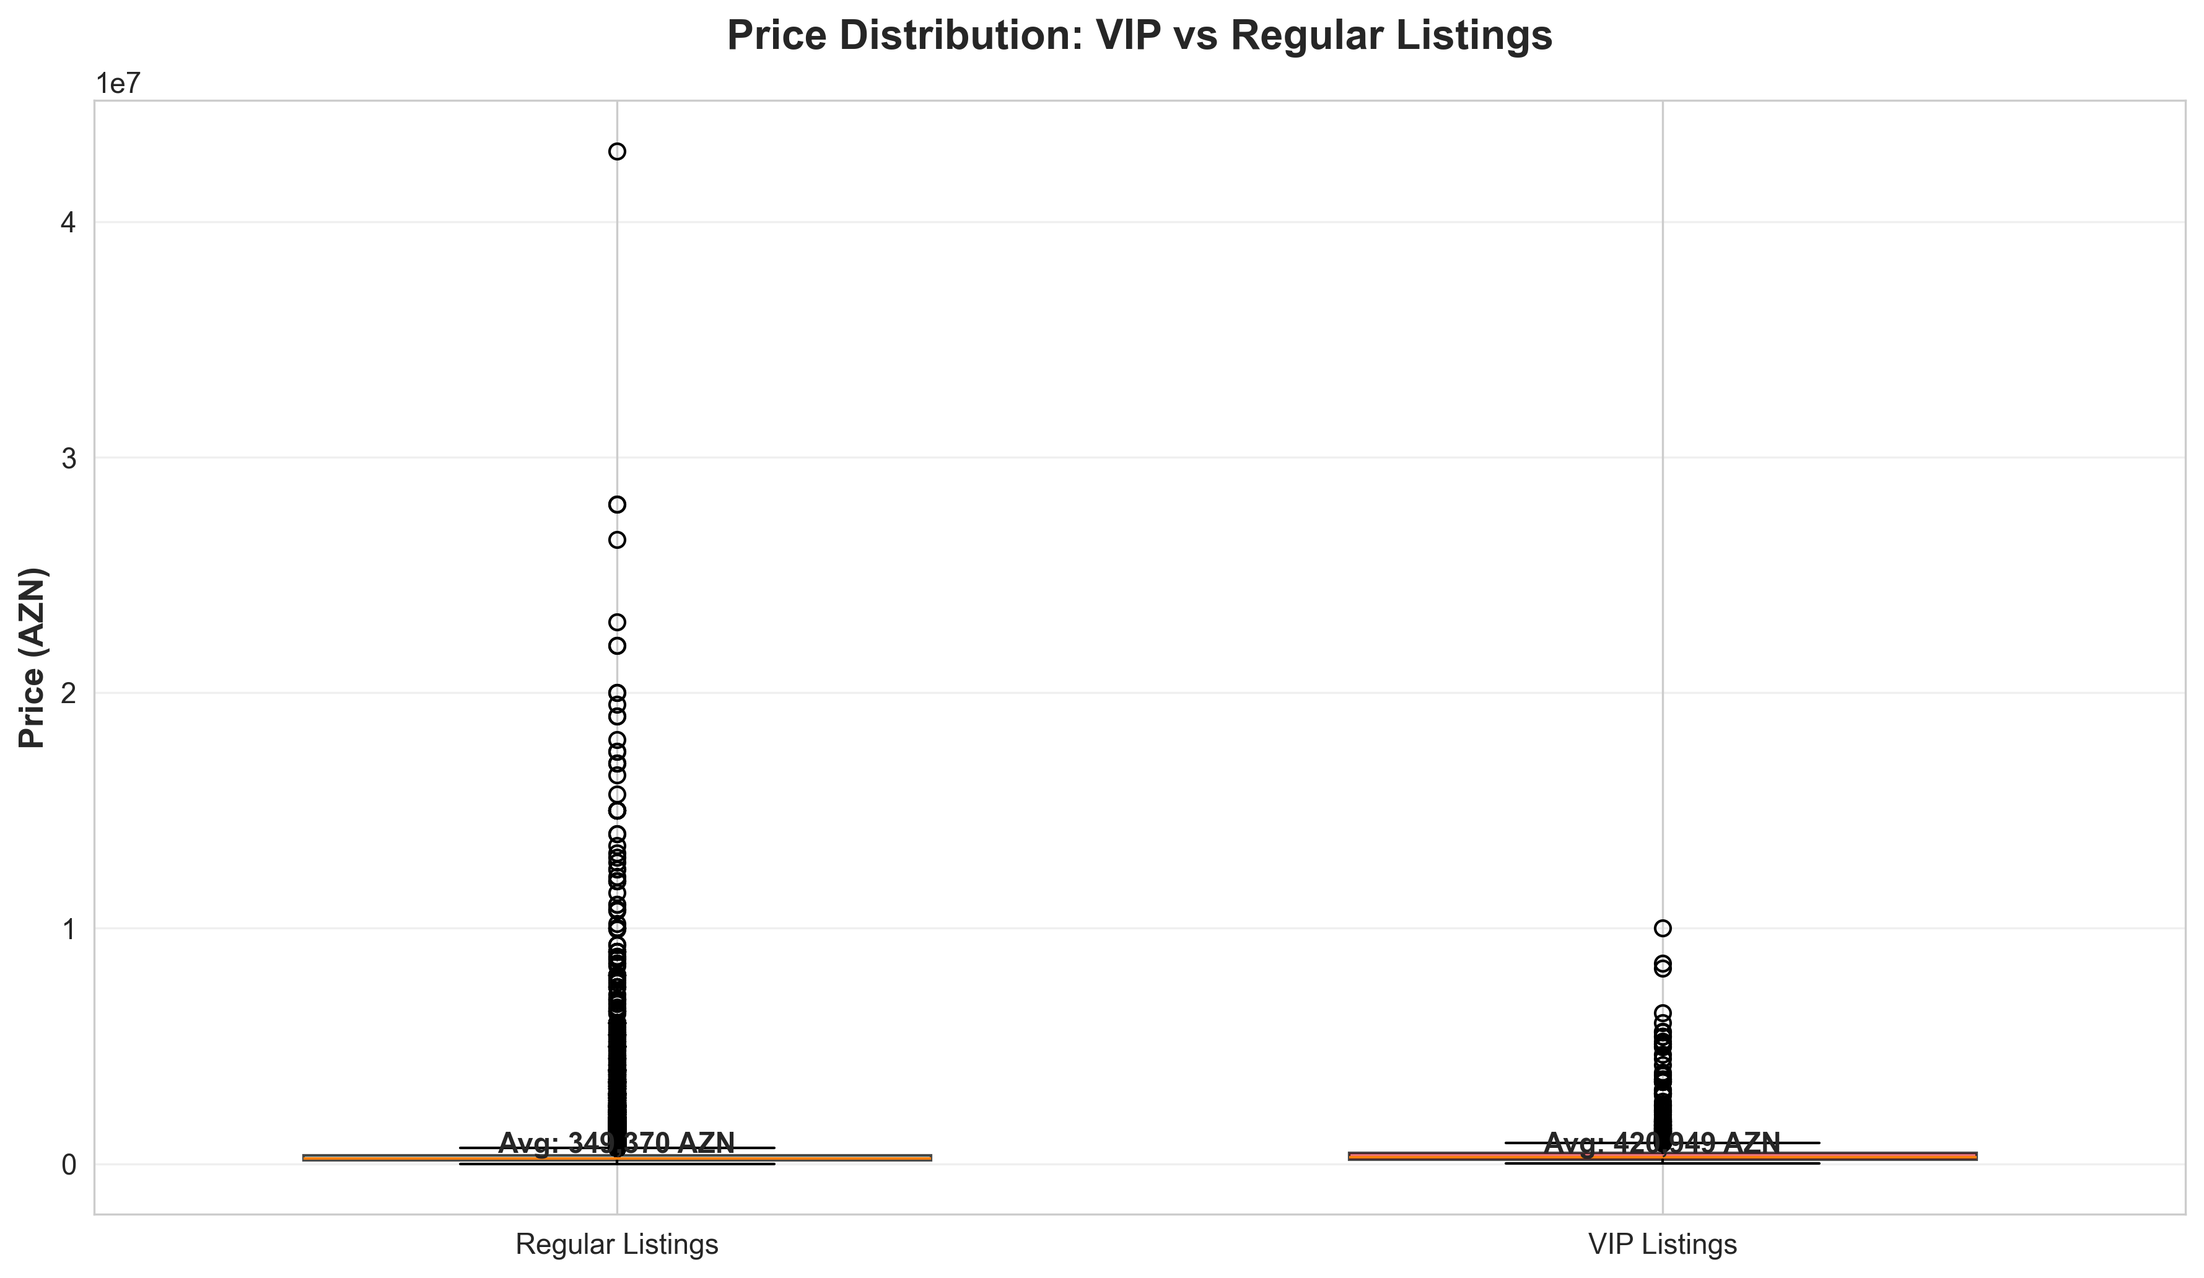
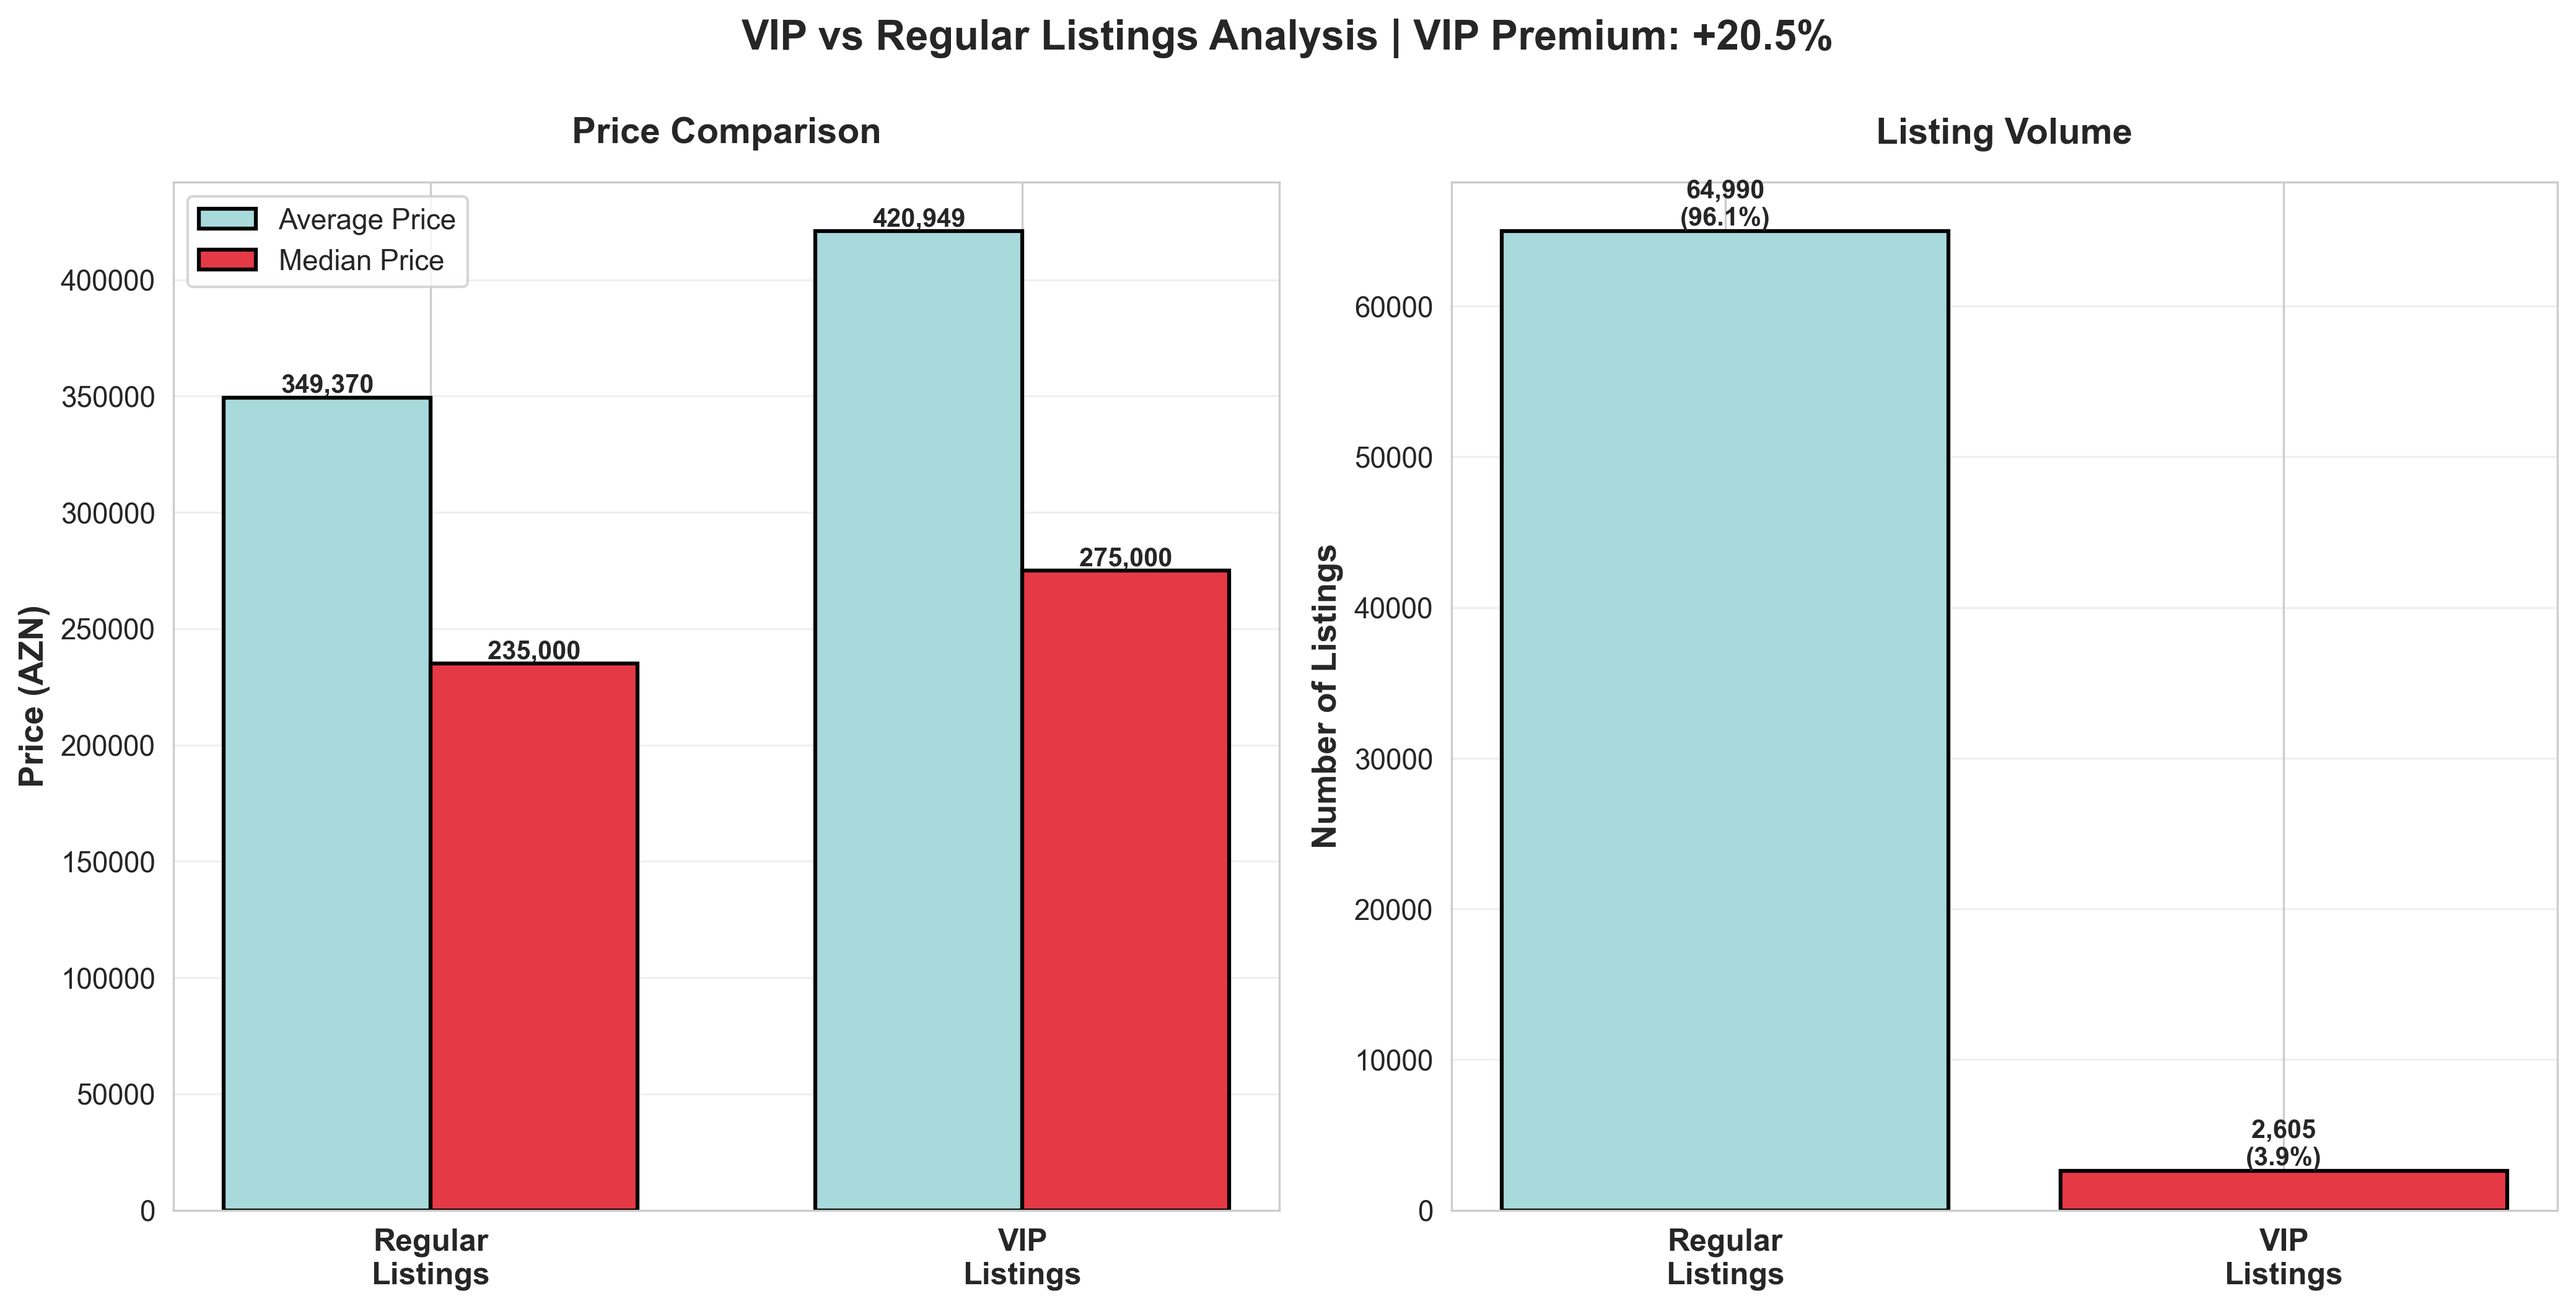
analyse

diff --git a/generate_insights.py b/generate_insights.py
@@ -293,28 +293,68 @@ vip_prices = [item['price_value'] for item in baki_data
 regular_prices = [item['price_value'] for item in baki_data
                   if not item.get('vipped') and item.get('price_value')]
 
-fig, ax = plt.subplots(figsize=(12, 7))
-data_box = [regular_prices, vip_prices]
-bp = ax.boxplot(data_box, labels=['Regular Listings', 'VIP Listings'],
-                patch_artist=True, widths=0.6)
-
-# Color boxes
-colors = ['#A8DADC', '#E63946']
-for patch, color in zip(bp['boxes'], colors):
-    patch.set_facecolor(color)
-    patch.set_alpha(0.7)
-
-ax.set_ylabel('Price (AZN)', fontsize=13, fontweight='bold')
-ax.set_title('Price Distribution: VIP vs Regular Listings', fontsize=16, fontweight='bold', pad=20)
-ax.grid(axis='y', alpha=0.3)
-
-# Add statistics
+# Calculate statistics
 vip_avg = np.mean(vip_prices)
 regular_avg = np.mean(regular_prices)
-ax.text(1, vip_avg + 50000, f'Avg: {int(regular_avg):,} AZN',
-        ha='center', fontsize=11, fontweight='bold')
-ax.text(2, vip_avg + 50000, f'Avg: {int(vip_avg):,} AZN',
-        ha='center', fontsize=11, fontweight='bold')
+vip_median = np.median(vip_prices)
+regular_median = np.median(regular_prices)
+vip_count = len(vip_prices)
+regular_count = len(regular_prices)
+
+# Create comparison chart
+fig, (ax1, ax2) = plt.subplots(1, 2, figsize=(14, 7))
+
+# Left: Average and Median Prices
+categories = ['Regular\nListings', 'VIP\nListings']
+averages = [regular_avg, vip_avg]
+medians = [regular_median, vip_median]
+
+x = np.arange(len(categories))
+width = 0.35
+
+bars1 = ax1.bar(x - width/2, averages, width, label='Average Price',
+                color='#A8DADC', edgecolor='black', linewidth=1.5)
+bars2 = ax1.bar(x + width/2, medians, width, label='Median Price',
+                color='#E63946', edgecolor='black', linewidth=1.5)
+
+ax1.set_ylabel('Price (AZN)', fontsize=13, fontweight='bold')
+ax1.set_title('Price Comparison', fontsize=14, fontweight='bold', pad=15)
+ax1.set_xticks(x)
+ax1.set_xticklabels(categories, fontsize=12, fontweight='bold')
+ax1.legend(fontsize=11)
+ax1.grid(axis='y', alpha=0.3)
+
+# Add value labels
+for bars in [bars1, bars2]:
+    for bar in bars:
+        height = bar.get_height()
+        ax1.text(bar.get_x() + bar.get_width()/2., height,
+                f'{int(height):,}',
+                ha='center', va='bottom', fontsize=10, fontweight='bold')
+
+# Right: Number of Listings
+counts = [regular_count, vip_count]
+colors_right = ['#A8DADC', '#E63946']
+bars3 = ax2.bar(categories, counts, color=colors_right, edgecolor='black', linewidth=1.5)
+
+ax2.set_ylabel('Number of Listings', fontsize=13, fontweight='bold')
+ax2.set_title('Listing Volume', fontsize=14, fontweight='bold', pad=15)
+ax2.set_xticks(x)
+ax2.set_xticklabels(categories, fontsize=12, fontweight='bold')
+ax2.grid(axis='y', alpha=0.3)
+
+# Add value labels and percentages
+for bar, count in zip(bars3, counts):
+    height = bar.get_height()
+    percentage = (count / sum(counts)) * 100
+    ax2.text(bar.get_x() + bar.get_width()/2., height,
+            f'{count:,}\n({percentage:.1f}%)',
+            ha='center', va='bottom', fontsize=10, fontweight='bold')
+
+# Add premium calculation
+premium = ((vip_avg - regular_avg) / regular_avg) * 100
+plt.suptitle(f'VIP vs Regular Listings Analysis | VIP Premium: +{premium:.1f}%',
+             fontsize=16, fontweight='bold', y=1.00)
 
 plt.tight_layout()
 plt.savefig('charts/09_vip_vs_regular.png', dpi=300, bbox_inches='tight')
